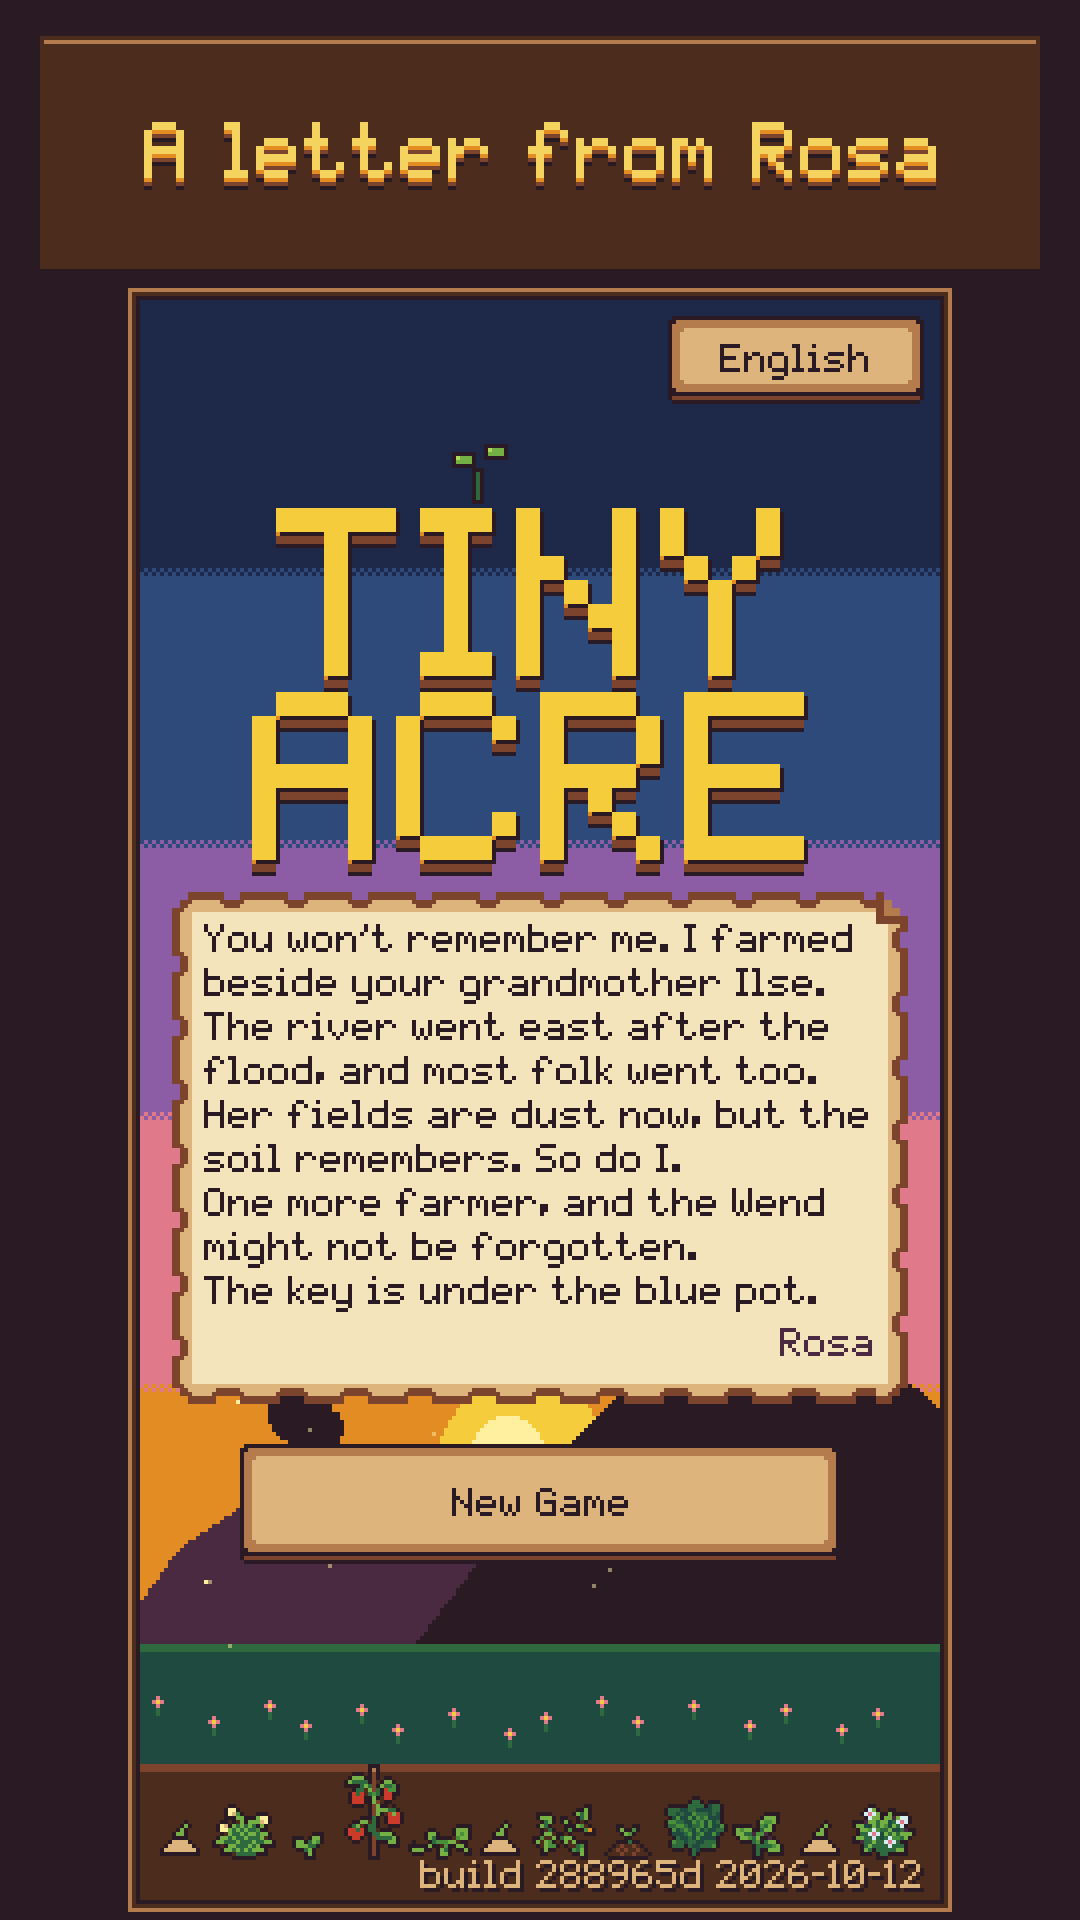
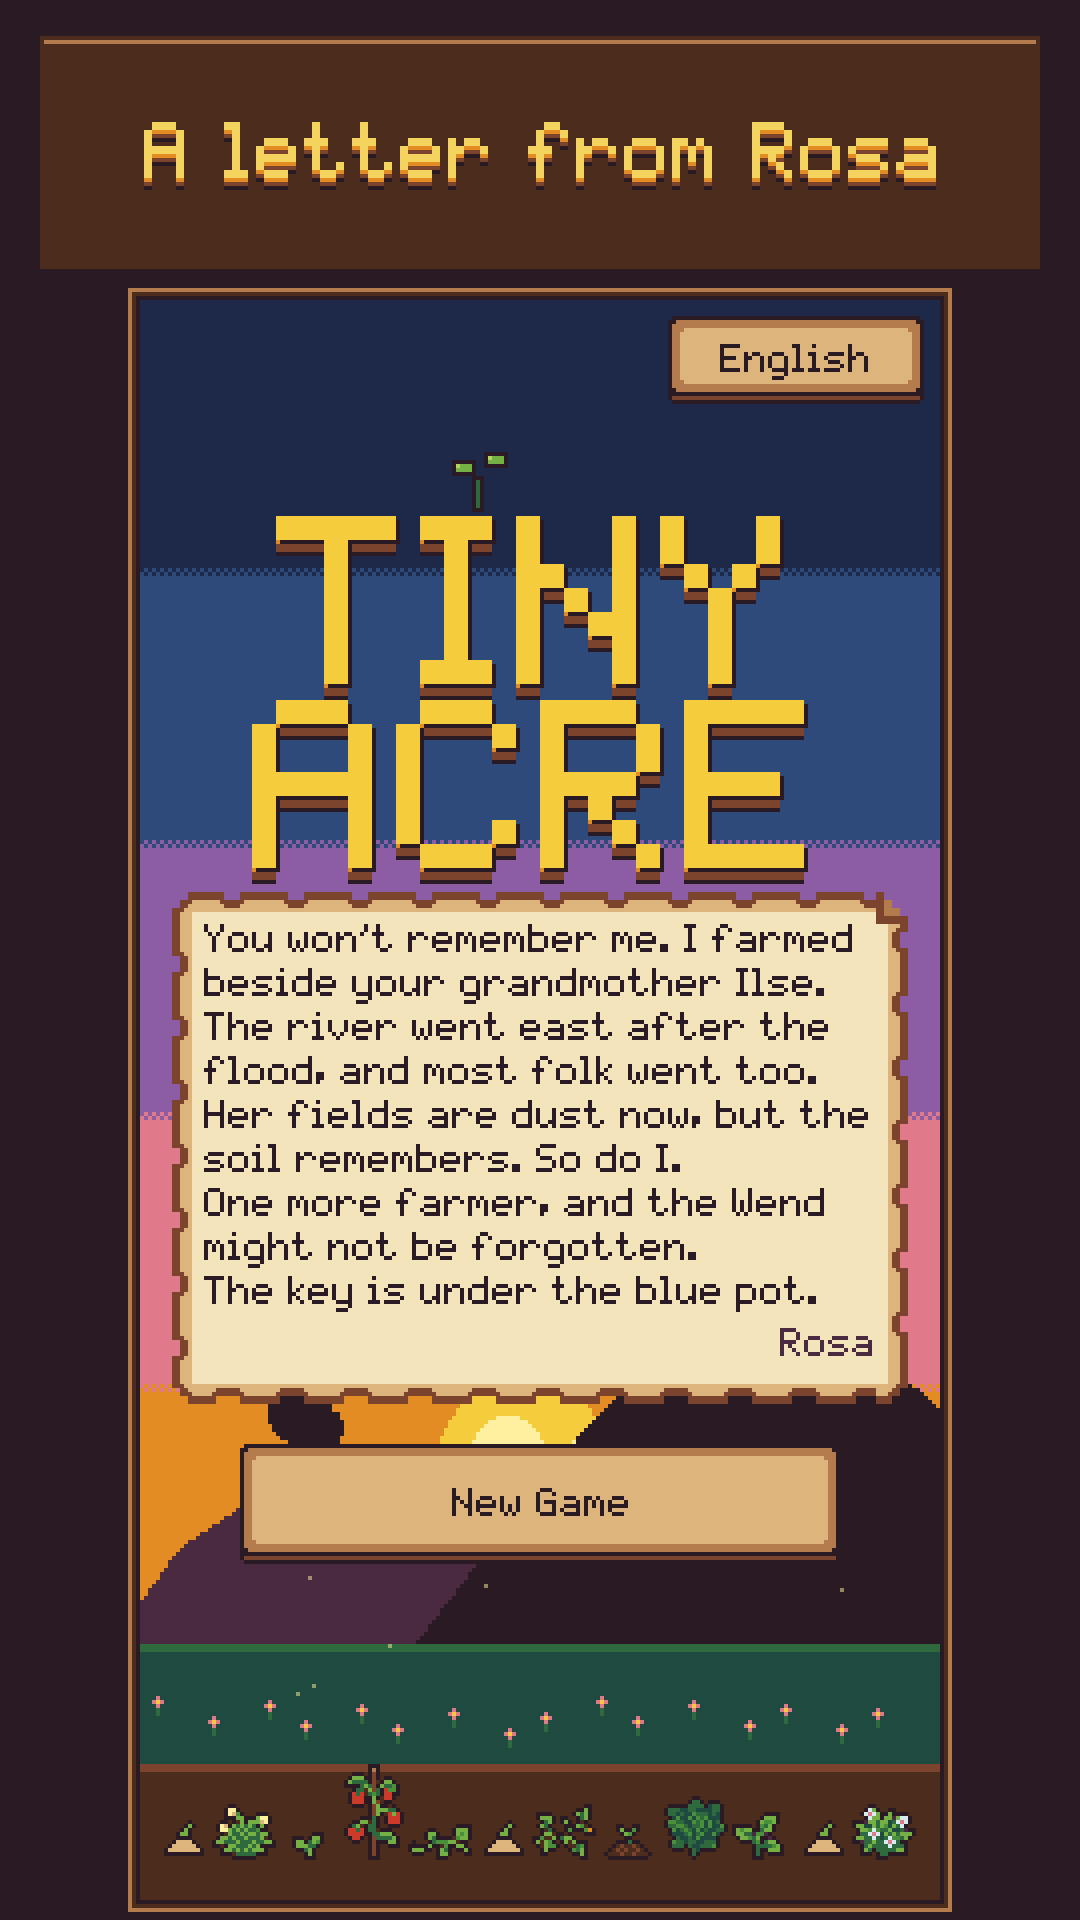
Store listing: privacy lines true with cloud save and analytics, no "nothing lost by waiting"; hide the build label in the letter shot
- Critic K1: the listings say the farm saves on the phone with optional cloud backup through Google Play Games, and
  that anonymous gameplay statistics can be turned off in Options; the README and the listing notes point to the
  Data safety section in agents/PUBLISHING.md instead of claiming "no data collected".
- Critic K3: "There are no timers to beat. Nobody leaves because you were slow." (en and pt-BR).
- Critic K4: store-capture hides the title's build label for the letter shot; 02-letter re-captured in both sets.

diff --git a/farm-game/store/README.md b/farm-game/store/README.md
@@ -2,13 +2,13 @@
 
 Everything the Play Console listing needs, except the video (Play takes a YouTube link).
 
-| Asset | File | Spec |
-| --- | --- | --- |
-| App icon | `play/icon-512.png` | 512x512, 32-bit PNG, every pixel opaque; the adaptive icon's layers (`resources/icon-foreground.png` on `icon-background.png`) on whole pixels |
-| Feature graphic | `play/feature-graphic.png` (en), `play/feature-graphic.pt-BR.png` | 1024x500, 24-bit PNG, no alpha; text inside the central area |
-| Phone screenshots | `play/screenshots/en/01..07-*.png`, `play/screenshots/pt-BR/01..07-*.png` | 1080x1920 (9:16), real gameplay with a caption band |
-| Listing text | `listing.en.md`, `listing.pt-BR.md` | app name, short and full description, what's new, category and tags |
-| Promo video | outside the repo: `C:/Users/andre/dev/tiny-acre/marketing/video/tiny-acre-promo-en.mp4` | 1080x1920, 30 fps, H.264 + AAC, 26 s, gameplay only |
+| Asset             | File                                                                                    | Spec                                                                                                                                           |
+| ----------------- | --------------------------------------------------------------------------------------- | ---------------------------------------------------------------------------------------------------------------------------------------------- |
+| App icon          | `play/icon-512.png`                                                                     | 512x512, 32-bit PNG, every pixel opaque; the adaptive icon's layers (`resources/icon-foreground.png` on `icon-background.png`) on whole pixels |
+| Feature graphic   | `play/feature-graphic.png` (en), `play/feature-graphic.pt-BR.png`                       | 1024x500, 24-bit PNG, no alpha; text inside the central area                                                                                   |
+| Phone screenshots | `play/screenshots/en/01..07-*.png`, `play/screenshots/pt-BR/01..07-*.png`               | 1080x1920 (9:16), real gameplay with a caption band                                                                                            |
+| Listing text      | `listing.en.md`, `listing.pt-BR.md`                                                     | app name, short and full description, what's new, category and tags                                                                            |
+| Promo video       | outside the repo: `C:/Users/andre/dev/tiny-acre/marketing/video/tiny-acre-promo-en.mp4` | 1080x1920, 30 fps, H.264 + AAC, 26 s, gameplay only                                                                                            |
 
 Screenshot order: the first green, Rosa's letter, a full field, towing a log, the river's return, Senna's homecoming,
 fishing the restored river.
@@ -43,5 +43,8 @@ Re-capture after any change to the HUD, hotbar or text that shows in a shot.
    the platform asks.
 3. **Play Console:** create the app with the final application id (see `docs/MOBILE.md`), then upload the icon,
    feature graphic and screenshots per language (en-US, pt-BR), paste the listing text, choose the category and
-   tags, fill the content rating questionnaire, the data safety form ("no data collected") and a privacy policy URL.
+   tags, fill the content rating questionnaire, and fill the Data safety form and the privacy policy URL from the
+   Data safety section in `agents/PUBLISHING.md` (cloud save through Google Play Games and opt-out analytics mean
+   the game is not "no data collected"). Keep the listing's cloud backup and statistics sentences only if those
+   features are in the uploaded build.
 4. Check every screenshot against the build you upload; re-capture if the HUD or hotbar changed.

diff --git a/farm-game/store/listing.en.md b/farm-game/store/listing.en.md
@@ -48,10 +48,10 @@ MADE FOR ONE THUMB
 Tap to walk, tap to work, drag to till or plant a whole row. A single Action button does the right thing for where you stand. A left-handed layout and a calmer, reduced-motion mode are in the options.
 
 COZY, NEVER PUNISHING
-There are no timers to beat and nothing you can lose by waiting. Nobody leaves because you were slow. The valley waits for you.
+There are no timers to beat. Nobody leaves because you were slow. The valley waits for you.
 
 PLAYS OFFLINE
-No account, no ads, no in-app purchases. Your farm is saved on your device.
+No ads, no in-app purchases. Plays offline; your farm saves on your phone, with optional cloud backup through Google Play Games. Anonymous gameplay statistics help improve the game, and you can turn them off in Options.
 
 Available in English and Brazilian Portuguese.
 ```
@@ -69,12 +69,15 @@ The Dry Year, chapter one: Rosa's letter, the first green, the Old Spring and it
 - **Tags (pick up to 5 in Play Console):** Farming, Life sim, Pixel art, Relaxing, Offline
 - **Content rating:** expect Everyone / PEGI 3 (no violence, no gambling, no user content); answer the IARC
   questionnaire honestly.
-- **Contact and privacy:** the game collects no data. A privacy policy URL is still required: it should say exactly
-  that (see `docs/MOBILE.md`, store checklist).
+- **Privacy and Data safety:** answer from the Data safety section in `agents/PUBLISHING.md` (owned by the cloud-save
+  and analytics lanes), and use a privacy policy URL that matches it. Do not claim "no data collected" once cloud save
+  or analytics is configured.
 
 ## Policy notes (checked)
 
 - No ranking or price claims ("best", "#1", "free", "sale"), no emoji, no other games' names, no keyword lists.
 - Every feature named is in the build; Lantern Night, the Seed House, the orchard and the market are not mentioned
   because they are not built yet.
-- "No ads, no in-app purchases" is true of this build; remove that line if that ever changes.
+- "No ads, no in-app purchases" is true of this build; remove that line if that ever changes. The cloud backup and
+  statistics sentences assume the Play Games cloud save and the opt-out analytics ship in the uploaded build; drop
+  either sentence if its feature is not in it.

diff --git a/farm-game/store/listing.pt-BR.md b/farm-game/store/listing.pt-BR.md
@@ -48,10 +48,10 @@ FEITO PARA UM POLEGAR
 Toque para andar, toque para trabalhar, arraste para arar ou plantar uma fileira inteira. Um único botão de Ação faz a coisa certa para onde você está. Há um modo para canhotos e um modo mais calmo, com menos movimento, nas opções.
 
 ACONCHEGANTE, NUNCA PUNITIVO
-Não há cronômetro para vencer nem nada que se perca por esperar. Ninguém vai embora porque você demorou. O vale espera por você.
+Não há cronômetro para vencer. Ninguém vai embora porque você demorou. O vale espera por você.
 
 JOGA OFFLINE
-Sem conta, sem anúncios, sem compras no app. Sua fazenda fica salva no seu aparelho.
+Sem anúncios, sem compras no app. Joga offline; sua fazenda fica salva no seu celular, com backup opcional na nuvem pelo Google Play Games. Estatísticas anônimas de jogo ajudam a melhorar o jogo, e você pode desligá-las nas Opções.
 
 Disponível em português do Brasil e em inglês.
 ```
@@ -68,6 +68,8 @@ O Ano Seco, capítulo um: a carta de Rosa, o primeiro verde, a Nascente Velha e 
 - **Categoria:** Simulação (alternativa: Casual)
 - **Tags (até 5 no Play Console):** Fazenda, Simulação de vida, Pixel art, Relaxante, Offline
 - **Classificação indicativa:** esperado Livre / PEGI 3; responda o questionário IARC com honestidade.
+- **Privacidade e Segurança dos dados:** responda pela seção Data safety de `agents/PUBLISHING.md` (das lanes de
+  nuvem e analytics). As frases de backup na nuvem e de estatísticas valem só se esses recursos estiverem no build.
 
 ## Policy notes (checked)
 
